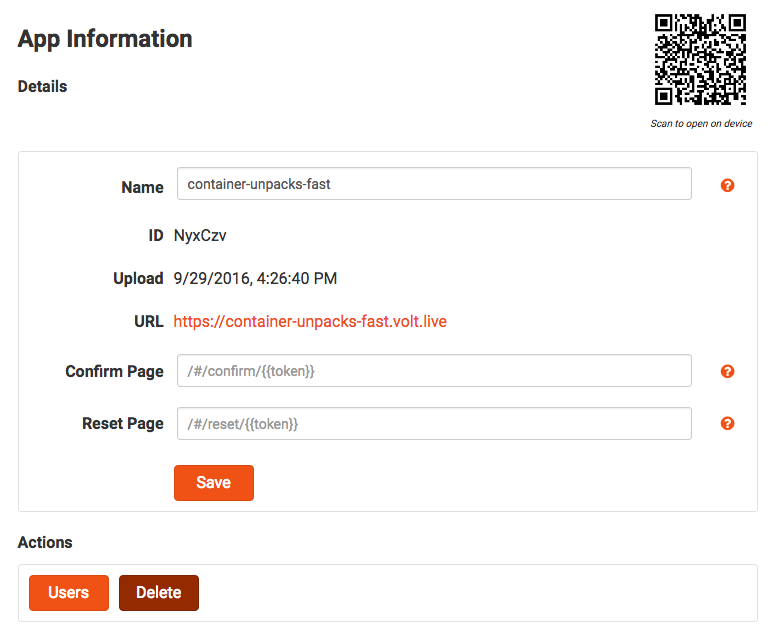
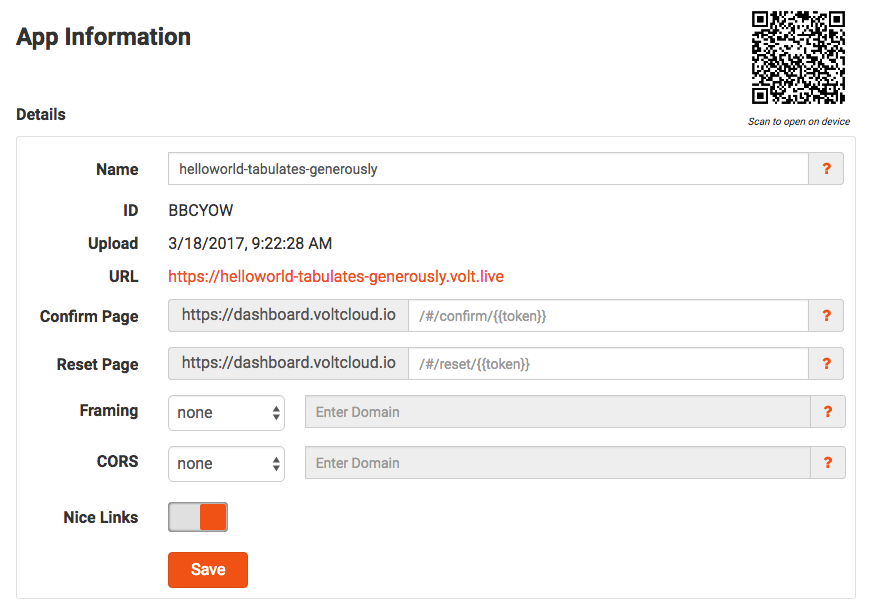
Add docs for Framing, CORS and Nice Links

diff --git a/_posts/2016-10-06-managing-your-apps.md b/_posts/2016-10-06-managing-your-apps.md
@@ -36,6 +36,12 @@ Here's what the fields are:
 
 **Reset Page** - The page in your app that handles user password resets. The special value {% raw %}{{token}}{% endraw %} is replaced by an actual confirmation token that your app can use to reset the password. Learn more about [resetting passwords](/authentication/resetting-passwords).
 
+**Framing** - Controls if the app can be framed by another site. Can be set to none, self, any, or domain. If set to none (the default) then framing is not allowed. If set to self, then the app can only frame itself. If set to any then any site can frame the app (this is not recommended). If set to domain then only the URL which is specified will be allowed to frame the site.
+
+**CORS** - Controls if the app's API allows incoming requests from other domains (CORS). cors_type can be set to none, any, or domain. If set to none (the default), then no cross domain requests are allowed. If set to any, requests from any domain are allowed (this is not recommended). If set to domain, requests will be allowed only from specified URL.
+
+**Nice Links** - If set, the server will redirect links that aren't found to index.html, allowing a client side router to service any links. No # character will appear in the URL. For AppStudio users, be sure to set NiceLinks in [Project Properties](http://wiki.nsbasic.com/Properties_Window) to true as well.
+
 ### Actions
 
 **Users** - Opens the [Users](/users/managing-your-users) screen. Use it to see the list of your users for the app, and to delete them.
